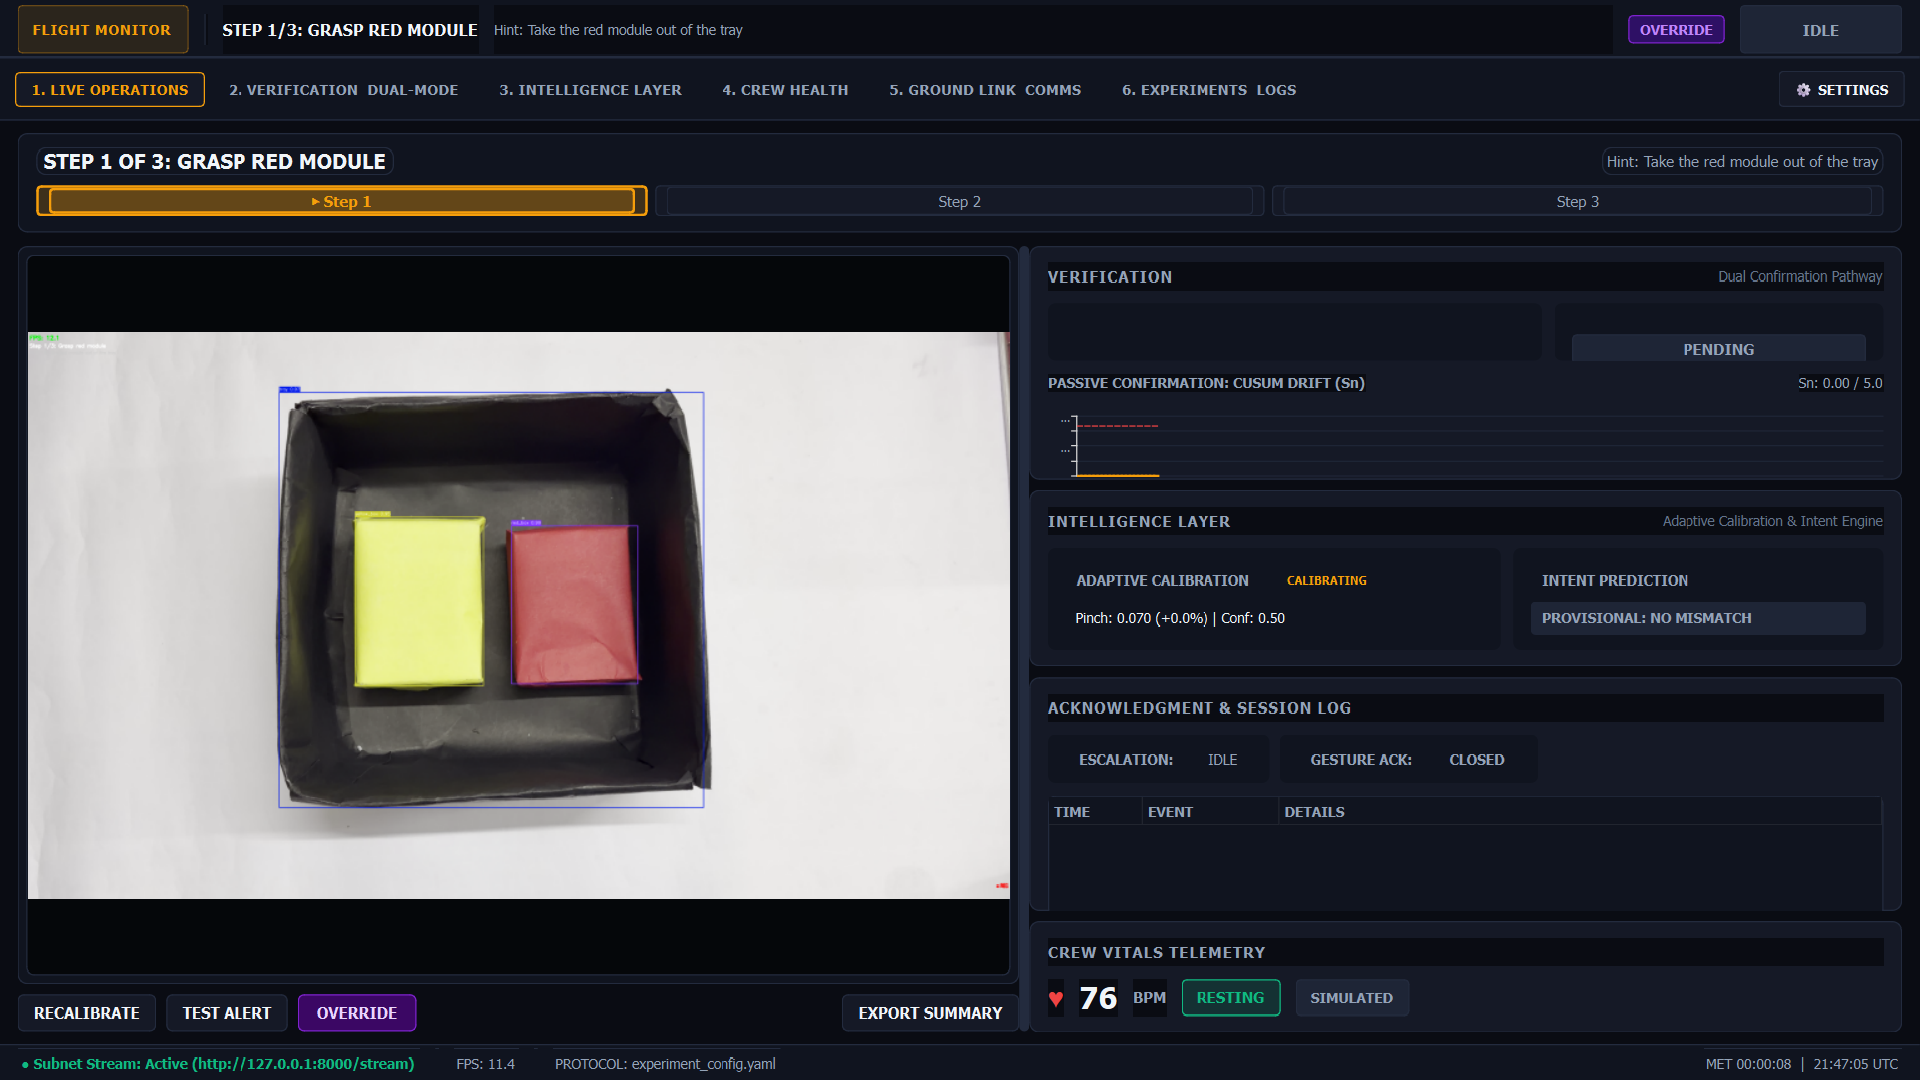
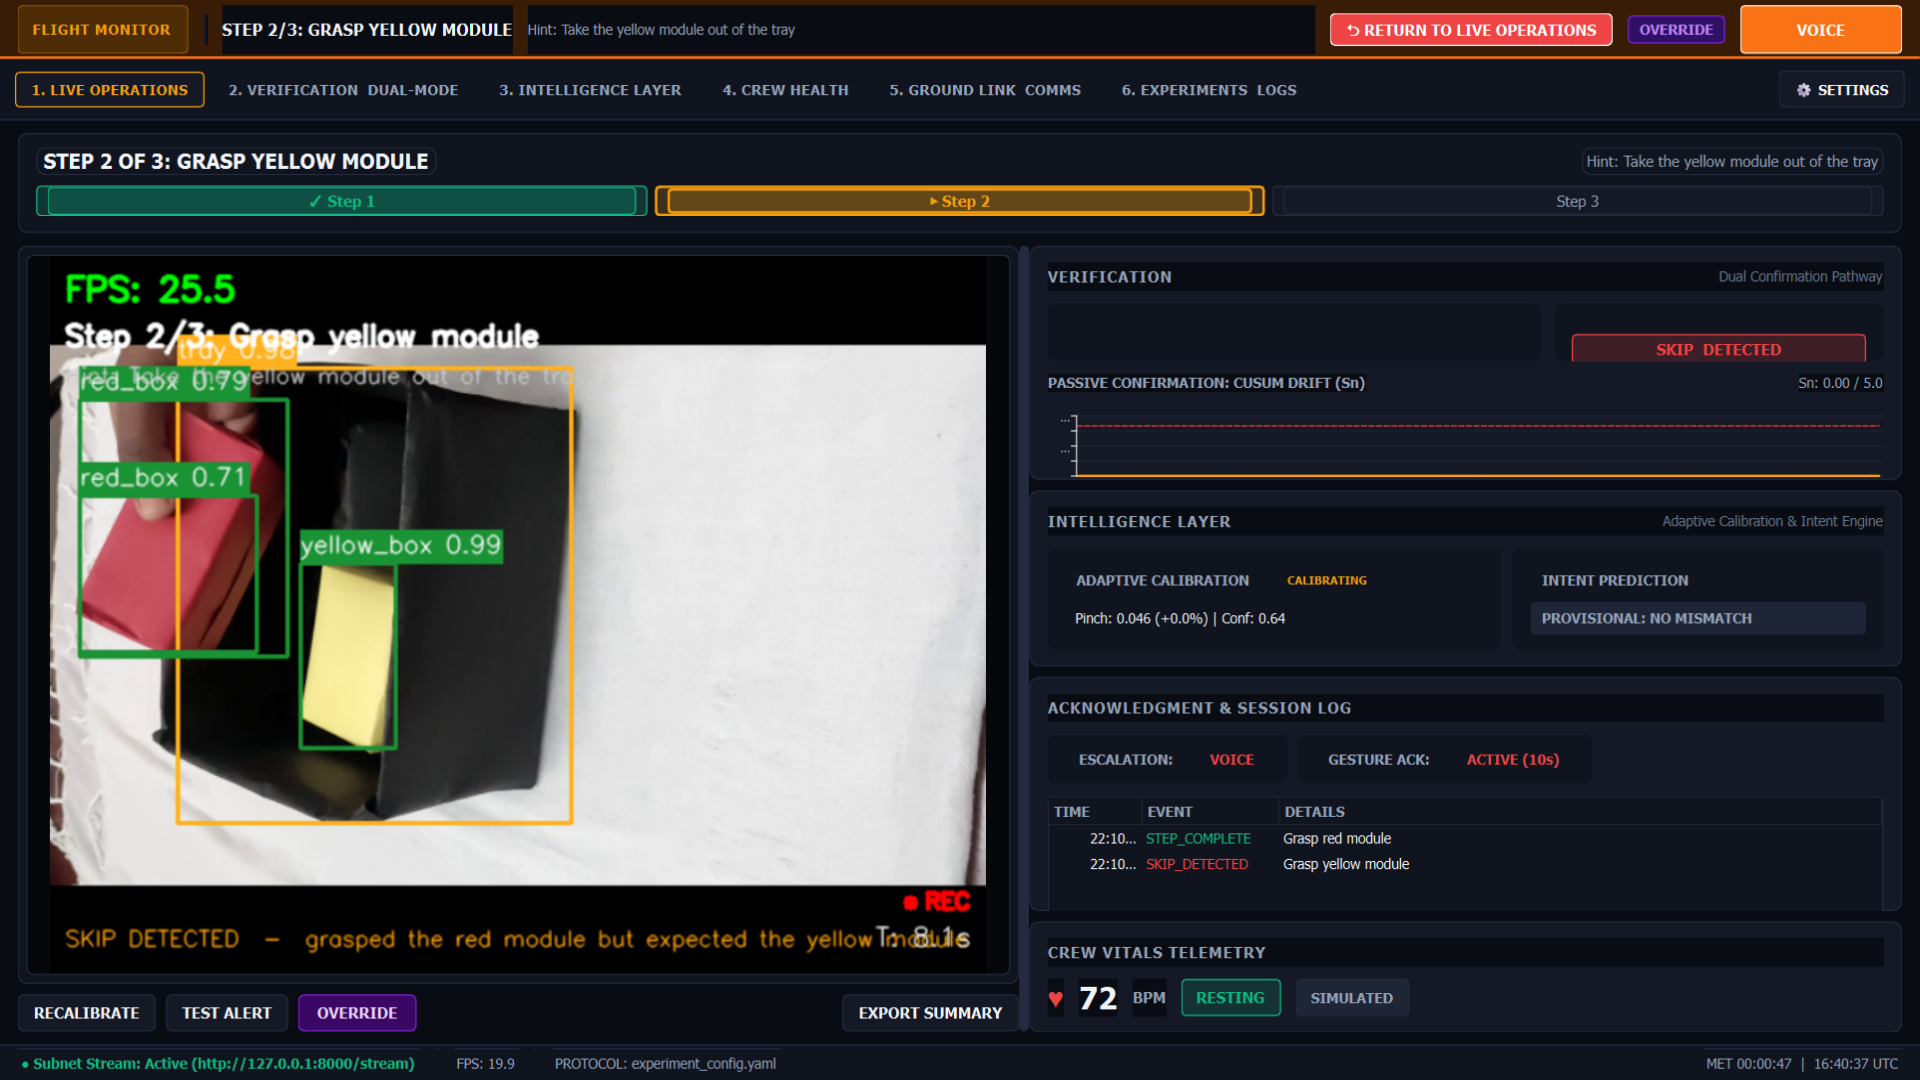
docs(evidence): replace placeholder log with unedited 69-event session and add 1080p skip alert screenshot

diff --git a/har_system/record_live_ops_evidence.py b/har_system/record_live_ops_evidence.py
@@ -1,6 +1,6 @@
 """
 record_live_ops_evidence.py — run full GUI + MJPEG stream on CLIP, record live status-bar FPS,
-and capture a 1920x1080 screenshot of Live Operations with detected prop boxes.
+and capture a 1920x1080 screenshot of Live Operations while a SKIP alert is active.
 """
 
 import os
@@ -17,15 +17,51 @@ HAR_SYSTEM = REPO_ROOT / "har_system"
 if str(HAR_SYSTEM) not in sys.path:
     sys.path.insert(0, str(HAR_SYSTEM))
 
-CLIP_PATH = r"c:\Users\Kirubhakaran\Downloads\SIH 26\videos\v1_standard.mp4"
-os.environ["TEST_VIDEO_PATH"] = CLIP_PATH
+from paths import VIDEOS_DIR
+
+
+def resolve_clip_path() -> Path:
+    """Resolve clip path from --clip, THEIA_TEST_CLIP, TEST_VIDEO_PATH, or first clip in VIDEOS_DIR."""
+    clip_arg = None
+    for i, arg in enumerate(sys.argv):
+        if arg == "--clip" and i + 1 < len(sys.argv):
+            clip_arg = sys.argv[i + 1]
+            break
+        elif arg.startswith("--clip="):
+            clip_arg = arg.split("=", 1)[1]
+            break
+    if not clip_arg and len(sys.argv) > 1 and not sys.argv[1].startswith("-"):
+        clip_arg = sys.argv[1]
+
+    clip_env = clip_arg or os.environ.get("THEIA_TEST_CLIP") or os.environ.get("TEST_VIDEO_PATH")
+    if clip_env:
+        p = Path(clip_env)
+        if not p.is_absolute() and hasattr(VIDEOS_DIR, "exists") and VIDEOS_DIR.exists():
+            candidate = VIDEOS_DIR / clip_env
+            if candidate.exists():
+                p = candidate
+        if not p.exists():
+            raise FileNotFoundError(f"Specified clip does not exist: {p}")
+        return p
+
+    if hasattr(VIDEOS_DIR, "exists") and VIDEOS_DIR.exists():
+        clips = sorted([p for p in VIDEOS_DIR.glob("*.mp4") if p.is_file()])
+        if clips:
+            return clips[0]
+
+    raise FileNotFoundError(f"No .mp4 clips found in VIDEOS_DIR ({VIDEOS_DIR})")
+
+
+clip_path_resolved = resolve_clip_path()
+os.environ["TEST_VIDEO_PATH"] = str(clip_path_resolved)
 
 import cv2
 import mediapipe as mp
 import numpy as np
-from PySide6.QtCore import QTimer
+from PySide6.QtCore import QTimer, Qt
 from PySide6.QtWidgets import QApplication
 
+from fsm.experiment_fsm import FSMEventType
 from gui.main_window import MainWindow
 from gui.worker import PipelineWorker
 from server.stream_server import SharedState, StreamServer
@@ -37,15 +73,20 @@ def consume_stream():
     try:
         url = "http://127.0.0.1:8000/stream"
         req = urllib.request.Request(url)
-        with urllib.request.urlopen(req, timeout=15) as resp:
-            for _ in range(50):
+        with urllib.request.urlopen(req, timeout=30) as resp:
+            for _ in range(200):
                 resp.readline()
     except Exception as e:
         print(f"[client stream consumer] Stream read: {e}")
 
 
 def main():
-    print("[evidence] Initializing full application on CLIP...")
+    clip_path = os.environ.get("TEST_VIDEO_PATH")
+    print(f"[evidence] Initializing full application on CLIP: {clip_path}...")
+    if not clip_path or not os.path.isfile(clip_path):
+        print(f"[evidence] ERROR: Clip file does not exist: {clip_path}")
+        sys.exit(1)
+
     app = QApplication.instance() or QApplication(sys.argv)
 
     shared_state = SharedState()
@@ -85,11 +126,16 @@ def main():
     os.makedirs(sample_logs_dir, exist_ok=True)
 
     result_info = {}
+    screenshot_captured = False
 
-    def capture_evidence():
-        # Read live FPS
+    def capture_screenshot():
+        nonlocal screenshot_captured
+        if screenshot_captured:
+            return
+        screenshot_captured = True
+
         fps_text = window.fps_label.text()
-        print(f"[evidence] Live status bar FPS: {fps_text}")
+        print(f"[evidence] Capturing 1920x1080 screenshot during SKIP alert! Live FPS: {fps_text}")
         result_info["live_fps"] = fps_text
 
         # Ensure on Live Operations page
@@ -98,17 +144,26 @@ def main():
 
         # Grab 1920x1080 screenshot
         pix = window.grab()
-        # Scale cleanly to 1920x1080 if window differs slightly due to frame borders
         if pix.width() != 1920 or pix.height() != 1080:
-            pix = pix.scaled(1920, 1080)
+            pix = pix.scaled(1920, 1080, Qt.AspectRatioMode.IgnoreAspectRatio, Qt.TransformationMode.SmoothTransformation)
         pix.save(evidence_png)
         print(f"[evidence] Saved screenshot to {evidence_png}")
 
-        # Stop worker
+        # Allow 8 more seconds for acknowledgment / alert lifecycle, then finish
+        QTimer.singleShot(8000, finish_session)
+
+    def on_fsm_event(ev):
+        if ev.type == FSMEventType.SKIP_DETECTED and not screenshot_captured:
+            print(f"[evidence] Detected SKIP_DETECTED event for object '{getattr(ev, 'object_class', '')}'! Scheduling capture in 350ms...")
+            QTimer.singleShot(350, capture_screenshot)
+
+    worker.fsm_event.connect(on_fsm_event)
+
+    def finish_session():
+        print("[evidence] Finalizing session...")
         worker.stop()
         worker.wait(3000)
 
-        # Copy session JSONL to sample_logs
         session_log_path = worker.logger.filepath
         if os.path.isfile(session_log_path):
             dest_log = sample_logs_dir / os.path.basename(session_log_path)
@@ -118,8 +173,15 @@ def main():
 
         app.quit()
 
-    # Let the pipeline process 8 seconds of frames to establish detections and smooth FPS
-    QTimer.singleShot(8000, capture_evidence)
+    # Fallback timeout at 50s if no SKIP_DETECTED event was triggered
+    def fallback_timeout():
+        if not screenshot_captured:
+            print("[evidence] Fallback timer fired; capturing screenshot.")
+            capture_screenshot()
+        else:
+            finish_session()
+
+    QTimer.singleShot(50000, fallback_timeout)
 
     app.exec()
     print("[evidence] Completed evidence capture successfully.")
